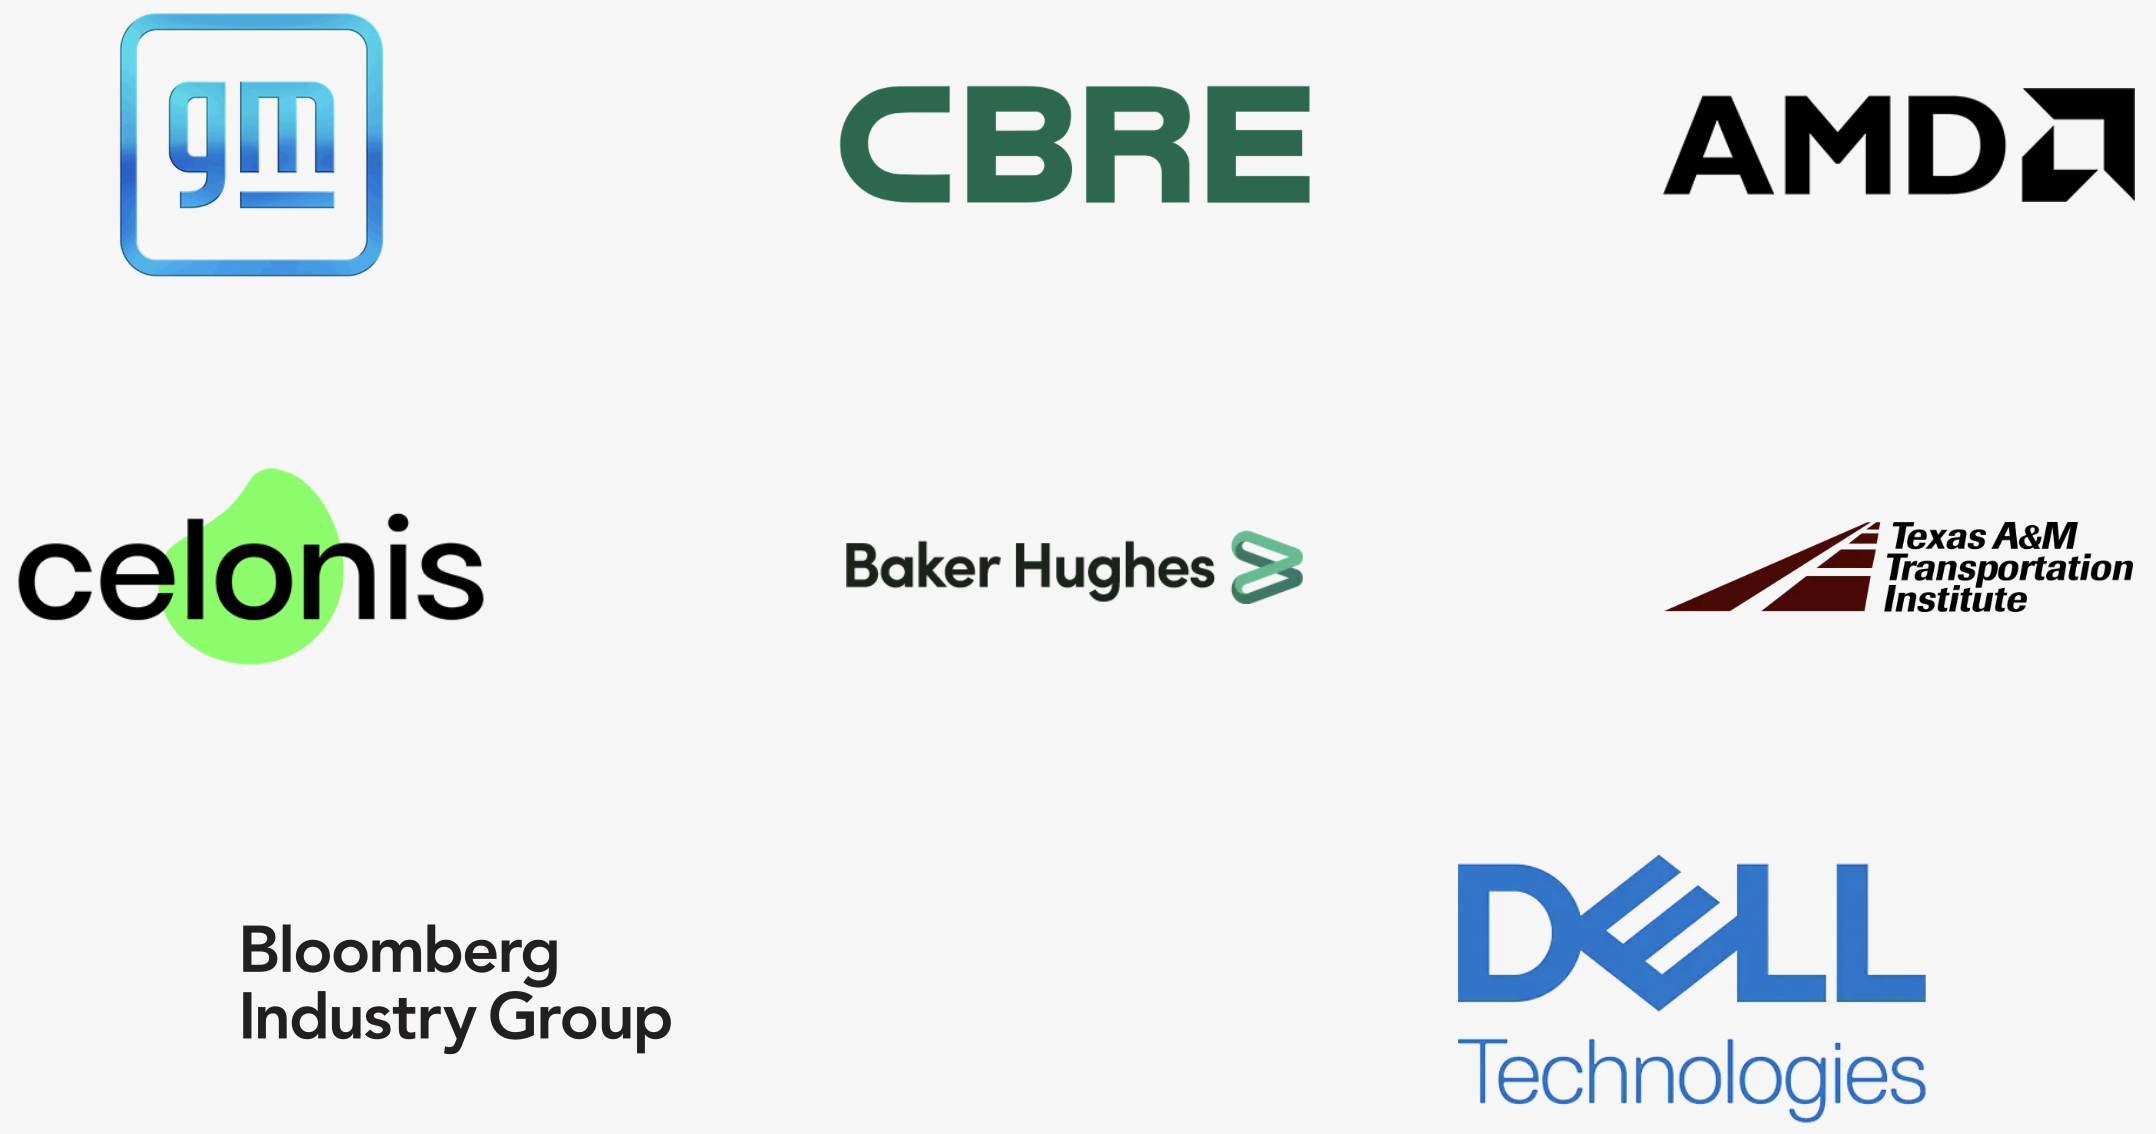
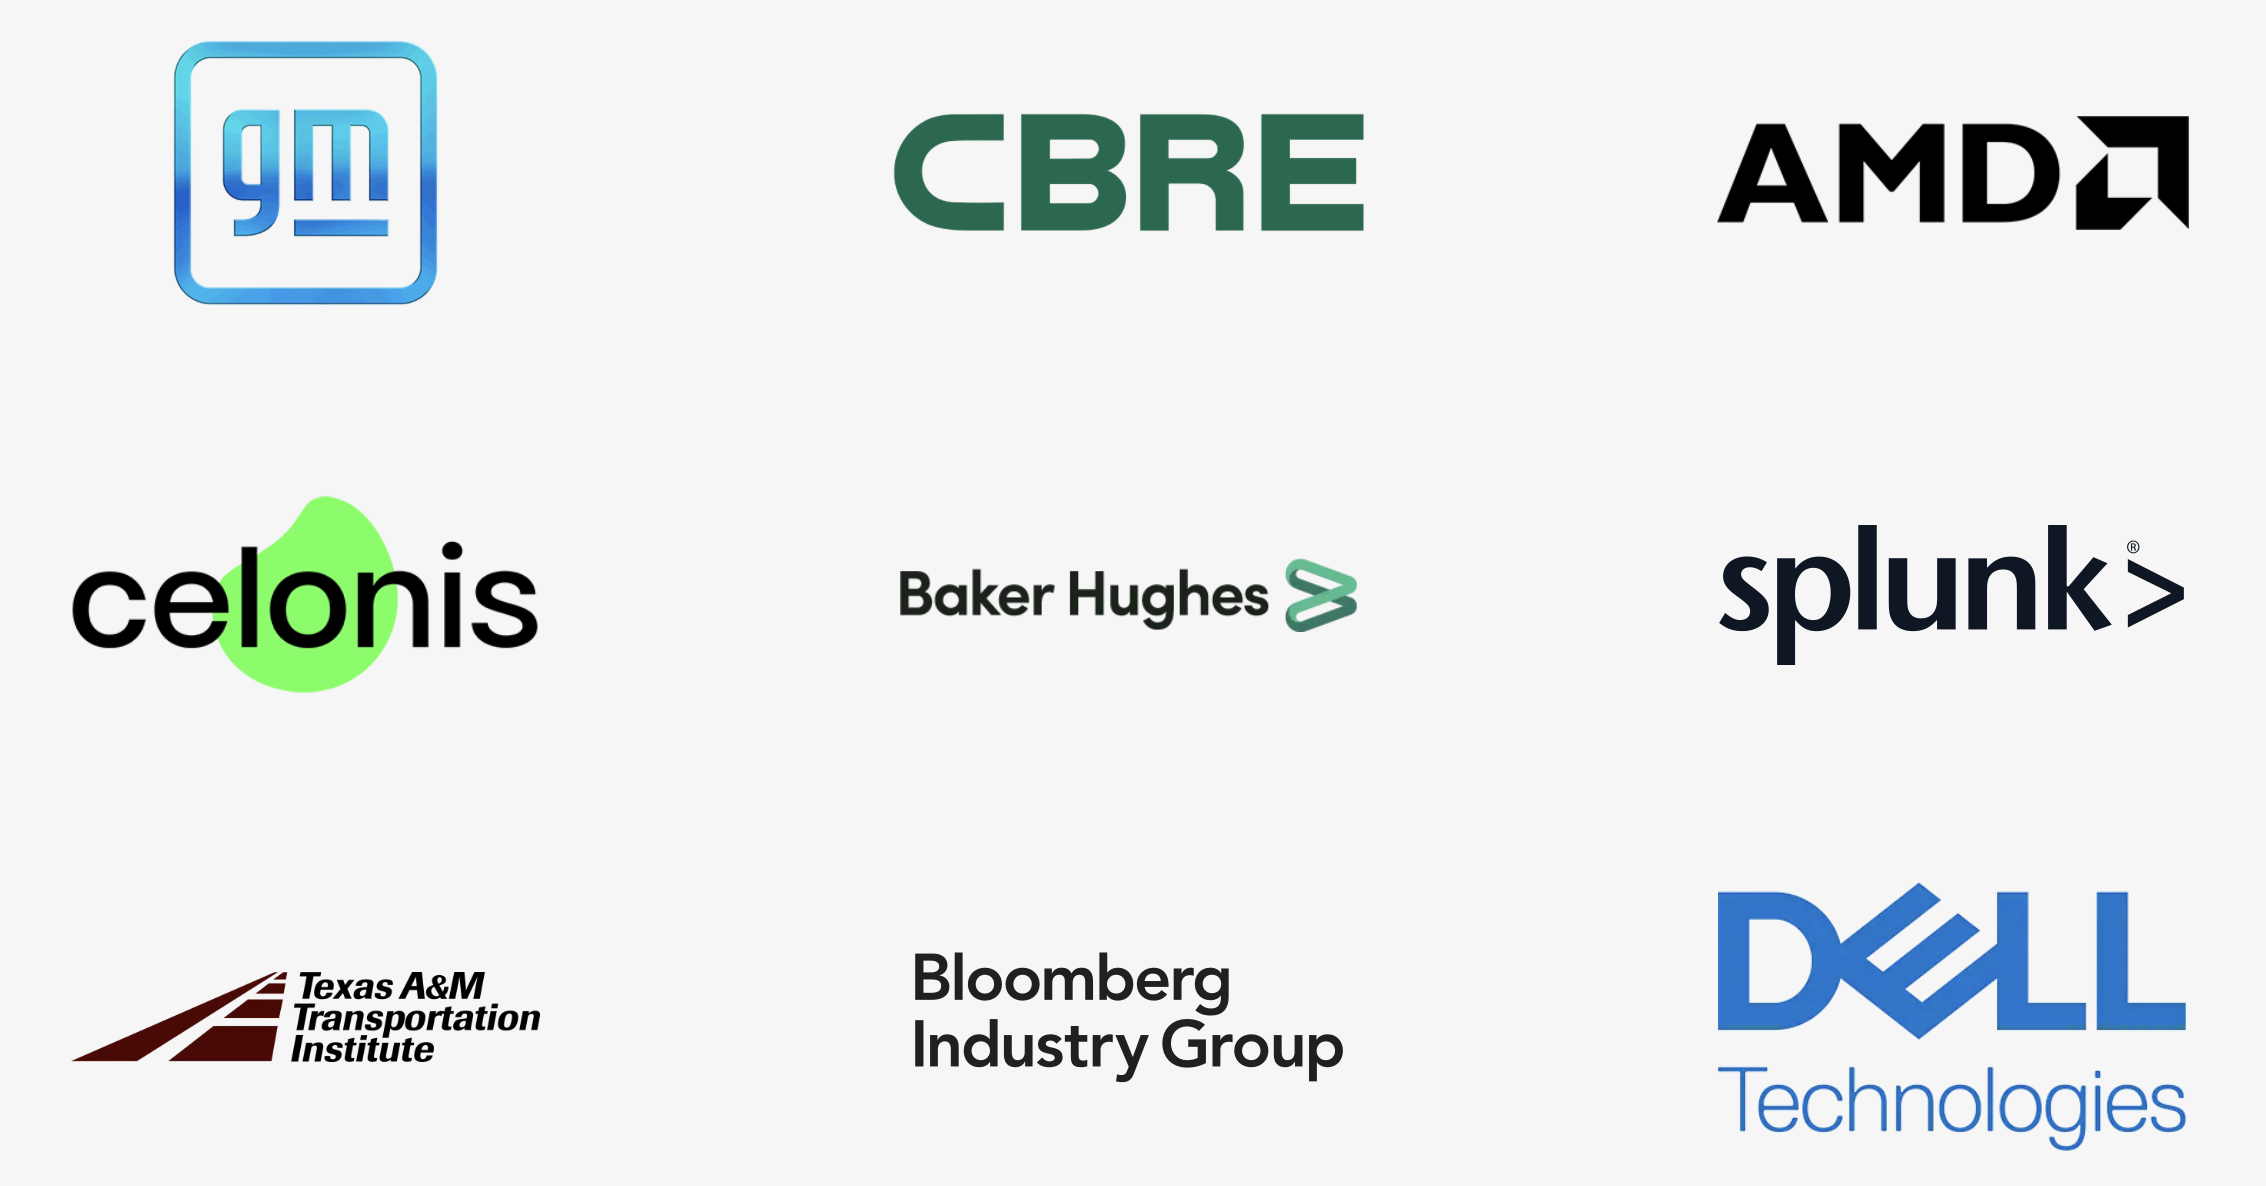
add splunk to site and email image

diff --git a/lib/pages/index/SponsorVariables.js b/lib/pages/index/SponsorVariables.js
@@ -30,6 +30,12 @@ const SponsorVariables = {
     url: "https://www.bakerhughes.com/",
     variant: "lg"
   }, {
+    name: "Splunk",
+    img: "/static/img/sponsors/current/splunk.svg",
+    industries: ["industry-technology"],
+    url: "https://www.splunk.com/",
+    variant: "lg"
+  }, {
     name: "Texas A&M Transportation Institute",
     img: "/static/img/sponsors/current/tti_logo.webp",
     industries: ["industry-transportation"],
